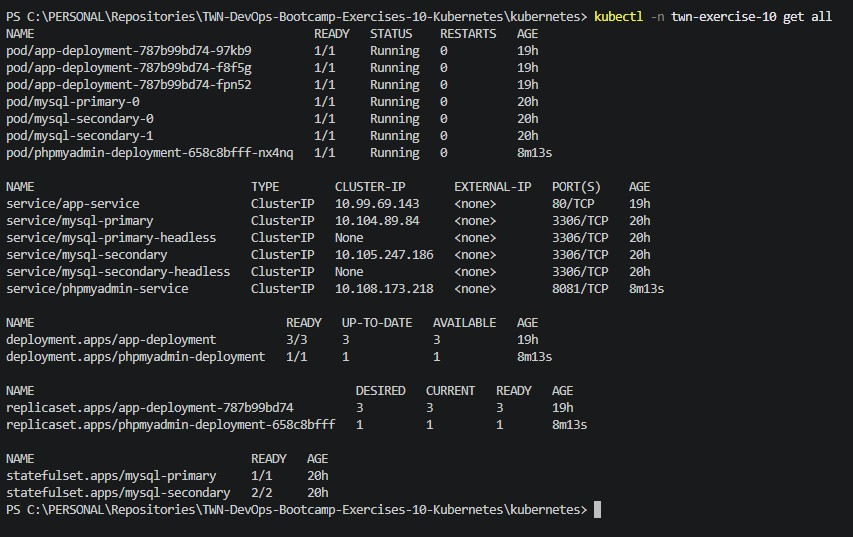
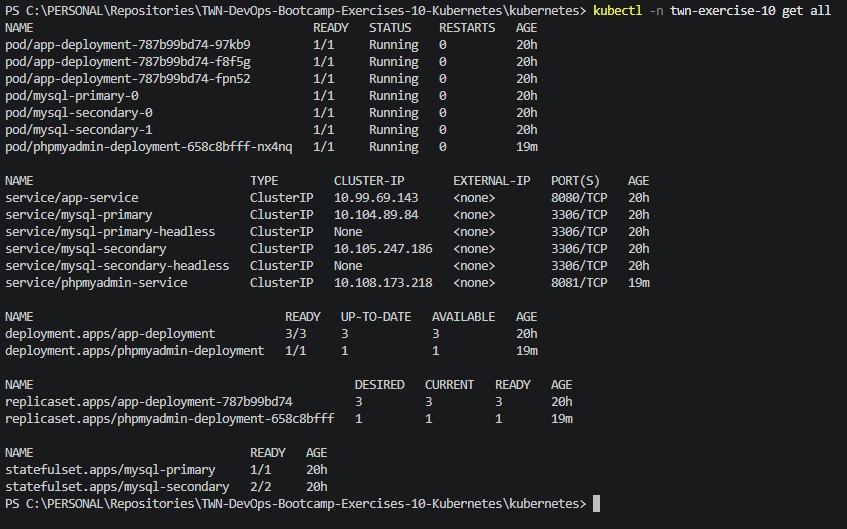
I made some enhancements to the solution file

diff --git a/Solutions-10.md b/Solutions-10.md
@@ -111,6 +111,94 @@ docker login
 docker push bodnarimredocker/twn-exercise10-app:1.0
 ```
 
+**The contents of `app-configmap.yaml`:**
+
+```yaml
+apiVersion: v1
+kind: ConfigMap
+metadata:
+  name: app-db-config
+data:
+  DB_SERVER: mysql-primary
+  DB_NAME: java-app-db
+```
+
+**The contents of `app-secret.yaml`:**
+
+```yaml
+apiVersion: v1
+kind: Secret
+metadata:
+  name: app-db-secret
+type: Opaque
+data:
+  DB_USER: aW1yZQ==
+  DB_PWD: dDV6NnU3aTg=
+```
+
+**The contents of `app-deployment.yaml`:**
+
+```yaml
+apiVersion: apps/v1
+kind: Deployment
+metadata:
+  name: app-deployment
+spec:
+  replicas: 3
+  selector:
+    matchLabels:
+      app: twn-java-app
+  template:
+    metadata:
+      labels:
+        app: twn-java-app
+    spec:
+      imagePullSecrets:
+        - name: dockerhub-secret
+      containers:
+        - name: twn-exercise10-app
+          image: bodnarimredocker/twn-exercise10-app:1.0
+          ports:
+            - containerPort: 8080
+          env:
+            - name: DB_USER
+              valueFrom:
+                secretKeyRef:
+                  name: app-db-secret
+                  key: DB_USER
+            - name: DB_PWD
+              valueFrom:
+                secretKeyRef:
+                  name: app-db-secret
+                  key: DB_PWD
+            - name: DB_SERVER
+              valueFrom:
+                configMapKeyRef:
+                  name: app-db-config
+                  key: DB_SERVER
+            - name: DB_NAME
+              valueFrom:
+                configMapKeyRef:
+                  name: app-db-config
+                  key: DB_NAME
+```
+
+**The contents of `app-service.yaml`:**
+
+```yaml
+apiVersion: v1
+kind: Service
+metadata:
+  name: app-service
+spec:
+  selector:
+    app: twn-java-app
+  ports:
+    - protocol: TCP
+      port: 8080
+      targetPort: 8080
+```
+
 **Finally it's time for deploying!**
 **At first I created a docker-registry type secret what I can use in the `imagePullSecrets` section to login to Docker before pulling the needed image.**
 **After that I applied my manifests.**
@@ -135,17 +223,13 @@ kubectl get all -n twn-exercise-10
 ```yaml
 apiVersion: apps/v1
 kind: Deployment
-
 metadata:
   name: phpmyadmin-deployment
-
 spec:
   replicas: 1
-
   selector:
     matchLabels:
       app: twn-phpmyadmin
-
   template:
     metadata:
       labels:
@@ -165,10 +249,8 @@ spec:
 ---
 apiVersion: v1
 kind: Service
-
 metadata:
   name: phpmyadmin-service
-
 spec:
   selector:
     app: twn-phpmyadmin
@@ -176,7 +258,6 @@ spec:
     - protocol: TCP
       port: 8081
       targetPort: 80
-
 ```
 
 **I used these commands to deploy a PhpMyAdmin instance into the cluster:**
